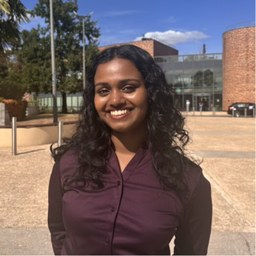
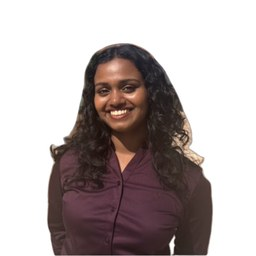
Cut every council photo onto a真 white background, and centre the proposal form
BACKGROUNDS. All seven headshots now sit on pure white, including the two with
real backgrounds behind them — Constantine's restaurant and Kirtana's campus
shot. Verified by reading the corner pixels of each finished file: 255,255,255.

This needed a proper segmentation model, which would not install earlier: the
system Python is 3.15 and no ML wheels exist for it yet. uv was available, so the
work runs in a throwaway Python 3.12 environment with rembg and its
portrait-specific u2net_human_seg model. Nothing was added to the system Python.

Two photos needed more than the model: stray fragments of background survived,
so anything not connected to the person is dropped, and for Constantine — whose
fragment touched his hair and so could not be separated that way — the corner is
cleared and the crop tightened.

MIM OF THE WEEK. New page at /mim-of-the-week/, linked under Well Being. It
carries the rules, the current holder when one is set, and both forms embedded in
the page, so nobody leaves mim28.com. The Qualtrics questions are ready to import
from docs/mim-of-the-week-qualtrics-import.txt; paste the two links into
lib/mim-of-the-week.ts and the embeds replace the "opens soon" notes.

Nominations live in INSEAD's own Qualtrics rather than a third-party form, which
matters when the content is named classmates.

LAYOUT. The proposal page is nothing but a form, so its 46rem column sat against
the left edge of a 1304px content area. Form pages are now a centred column.

diff --git a/lib/mim-of-the-week.ts b/lib/mim-of-the-week.ts
@@ -1,15 +1,20 @@
 /**
- * MIM of the Week — one classmate the cohort wants to thank.
+ * MIM of the Week — nominations, voting, and who is being recognised now.
  *
- * EDIT THIS FILE each week. Set `current` to the person being recognised, and
- * move the previous one into `past`. Set `current` to null and the homepage
- * section disappears entirely rather than showing a stale name.
+ * WEEKLY ROUTINE (about two minutes):
+ *   1. read the nominations in Qualtrics
+ *   2. set `current` below to the winner
+ *   3. move last week's entry to the top of `past`
+ *   4. push — the homepage and /mim-of-the-week/ update on the next build
  *
- *   name    as they write it
- *   week    what the page shows, e.g. 'Week of 3 November'
- *   why     one or two sentences: what they actually did
- *   photo   OPTIONAL, under /public/images/. Falls back to their initials.
- *   nominatedBy OPTIONAL — leave out if the nominator would rather not be named.
+ * Set `current` to null and the homepage section disappears rather than showing
+ * a stale name. Nothing here needs touching on a week nobody is named.
+ *
+ * THE FORMS. A static site cannot count votes, so both forms live in INSEAD's
+ * own Qualtrics and are embedded in the page — people never leave mim28.com, and
+ * nominations about named classmates stay inside the school's tenant rather than
+ * a third-party inbox. Create them from
+ * docs/mim-of-the-week-qualtrics-import.txt, then paste the links below.
  */
 export type MimOfTheWeek = {
   name: string;
@@ -17,20 +22,33 @@ export type MimOfTheWeek = {
   why: string;
   photo?: string;
   nominatedBy?: string;
-  /** true = sample content, rendered with a visible 'placeholder' flag. */
-  placeholder?: boolean;
 };
 
-export const current: MimOfTheWeek | null = {
-  // PLACEHOLDER — replace with a real nomination, or set this back to null to
-  // hide the section. It is deliberately obvious so it cannot ship by accident.
-  name: 'Nobody yet',
-  week: 'Week of 3 November',
-  why: 'This is a placeholder. Nominate a classmate who did something good for the cohort and their name goes here.',
-  placeholder: true,
-};
+/** Whoever is being recognised right now. null = nothing shown anywhere. */
+export const current: MimOfTheWeek | null = null;
 
+/** Most recent first. Shown on /mim-of-the-week/ once there is a history. */
 export const past: MimOfTheWeek[] = [];
+
+/**
+ * Paste the Qualtrics links here once the forms exist.
+ * `nominate` collects names; `vote` is the following week's shortlist.
+ * Leave either null and the page shows a short "opens soon" note instead of an
+ * empty frame.
+ */
+export const forms: { nominate: string | null; vote: string | null } = {
+  nominate: null,
+  vote: null,
+};
+
+/** How it works, shown on the page so the rules are public rather than folklore. */
+export const howItWorks = [
+  'Anyone in MIM’28 can nominate anyone else — classmates, not the Council.',
+  'Say what they actually did. One specific thing beats three adjectives.',
+  'Nominations close Sunday evening. Voting opens Monday on the shortlist.',
+  'The most-voted name goes up on Tuesday, and earns a Contributor Badge.',
+  'You cannot nominate yourself, and the Council does not pick the winner.',
+];
 
 /** 'Jane Doe' -> 'JD' */
 export function initialsOf(name: string) {

diff --git a/app/globals.css b/app/globals.css
@@ -735,3 +735,33 @@ h1{font-weight:700}
 .page-intro .eyebrow{color:var(--accent)}
 .page-intro h1{color:var(--accent)}
 .page-tagline{color:var(--accent)}
+
+/* ---- Form pages are a centred column ----------------------------------- */
+/* The proposal page is nothing but a form, so a 46rem column pinned to the
+   left of a 1304px content area left half the page empty. Centre it. */
+.form-page .page-intro,
+.form-page .proposal-form{max-width:56rem;margin-inline:auto;width:100%}
+.form-page .page-intro{padding-left:1.5rem;padding-right:1.5rem}
+.form-page .proposal-form{padding-left:1.5rem;padding-right:1.5rem}
+#initiative-form{max-width:none}
+.form-page .guide-next{max-width:56rem;margin-inline:auto;
+  padding-left:1.5rem;padding-right:1.5rem}
+
+/* The MIM of the Week forms sit side by side, each embedded in the page. */
+.motw-forms{max-width:1400px;margin:auto;
+  padding:1rem max(3rem,calc((100vw - 1304px)/2)) 2.5rem;
+  display:grid;grid-template-columns:1fr 1fr;gap:1.5rem;align-items:start}
+.motw-form h2{font-size:1.25rem;margin:0 0 .6rem;color:var(--brand-green)}
+.form-embed{width:100%;height:620px;border:1px solid #d9dfd7;border-radius:14px;background:#fff}
+.form-soon{background:#f4f7f2;border:1px dashed #c8d4cb;border-radius:14px;
+  padding:1.2rem;color:#5a6b5f;line-height:1.5;margin:0}
+.motw-rules .guide-step ul{gap:.4rem}
+.motw-past{list-style:none;margin:0;padding:0;display:grid;gap:.8rem;max-width:52rem}
+.motw-past li{background:#fff;border:1px solid #e3e9e2;border-radius:12px;padding:.9rem 1.1rem}
+.motw-past span{color:#5a6b5f;font-size:.875rem;margin-left:.4rem}
+.motw-past p{margin:.3rem 0 0;color:#42564a;line-height:1.45}
+@media (max-width:860px){
+  .motw-forms{grid-template-columns:1fr;padding-left:1rem;padding-right:1rem}
+  .form-page .page-intro,.form-page .proposal-form,.form-page .guide-next{
+    padding-left:1rem;padding-right:1rem}
+}

diff --git a/lib/sections.ts b/lib/sections.ts
@@ -66,7 +66,11 @@ export const pillars: Pillar[] = [
         label: 'Guidelines on Harassment',
         note: 'Who to contact at INSEAD and on the Council',
       },
-      { label: 'Nominate a MIM Contributor' },
+      {
+        label: 'MIM of the Week',
+        href: '/mim-of-the-week/',
+        note: 'Nominate someone, or vote',
+      },
     ],
   },
 ];
